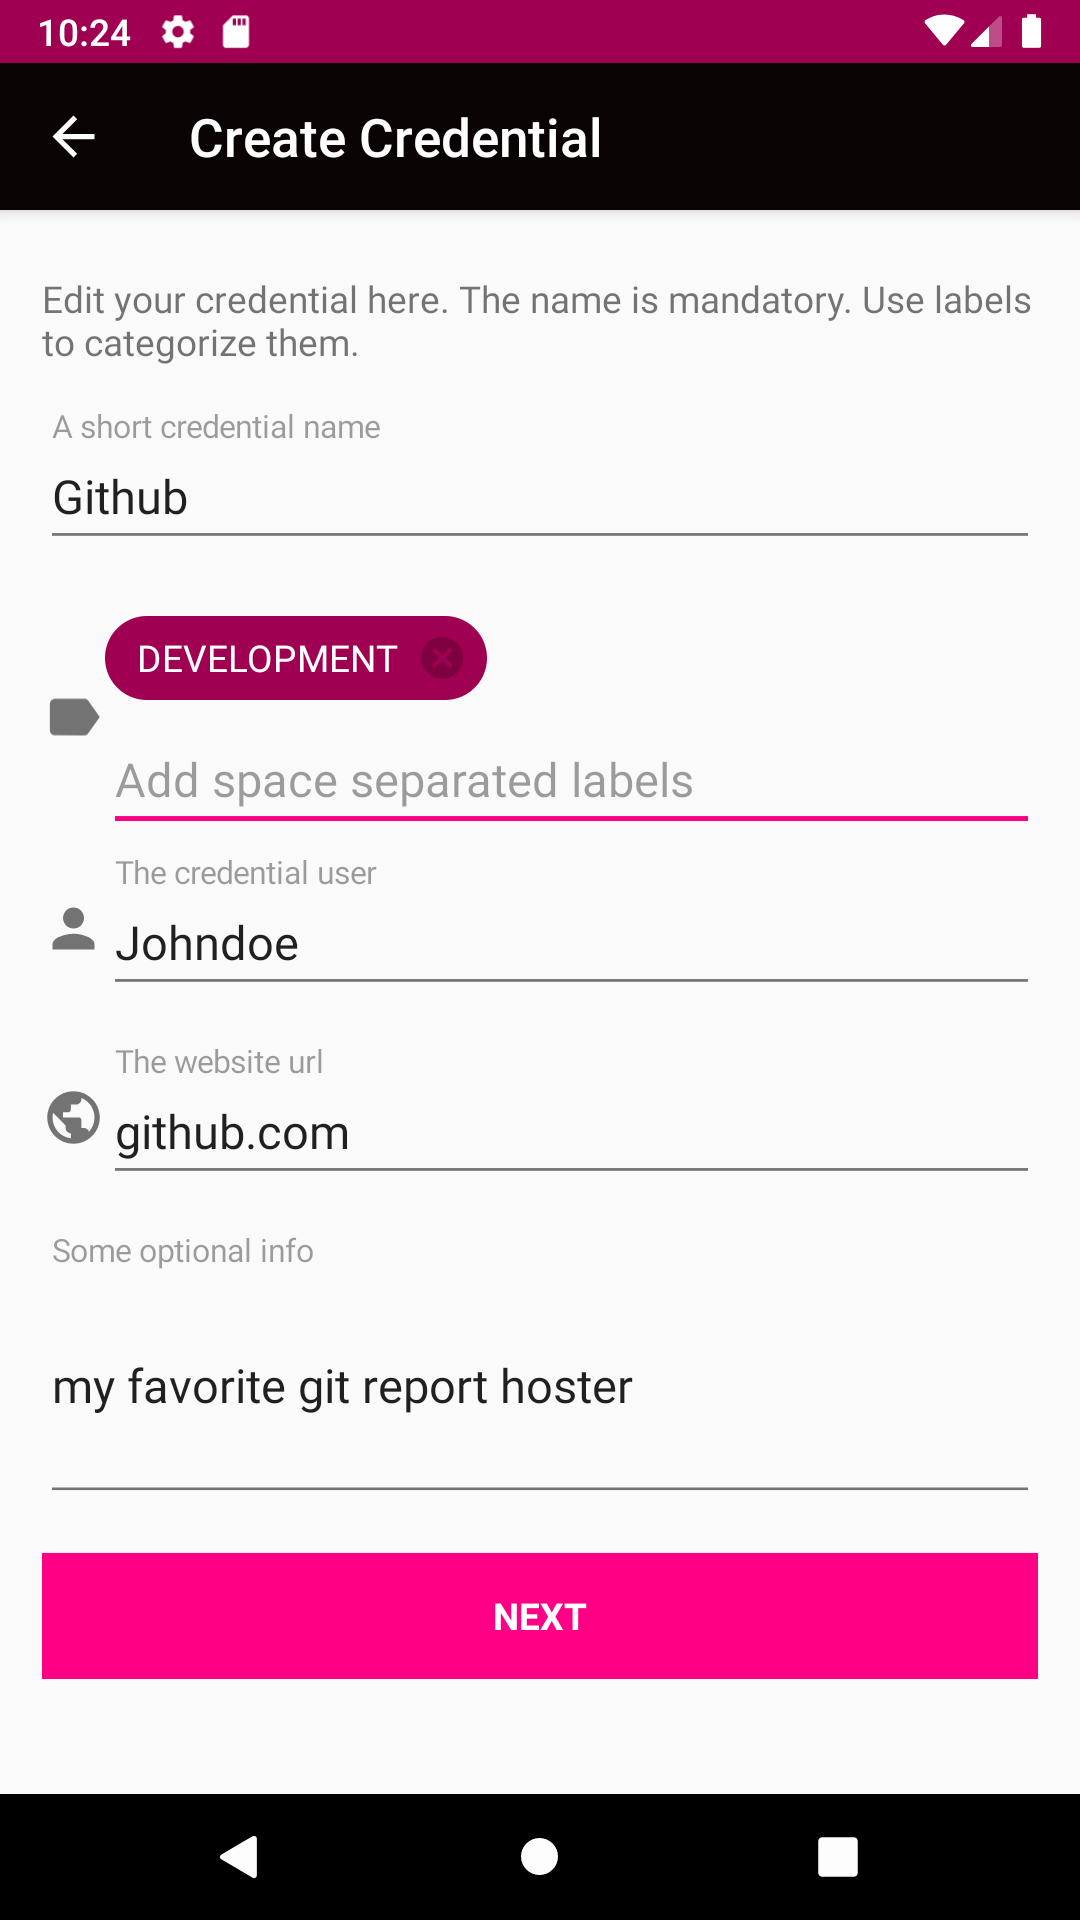
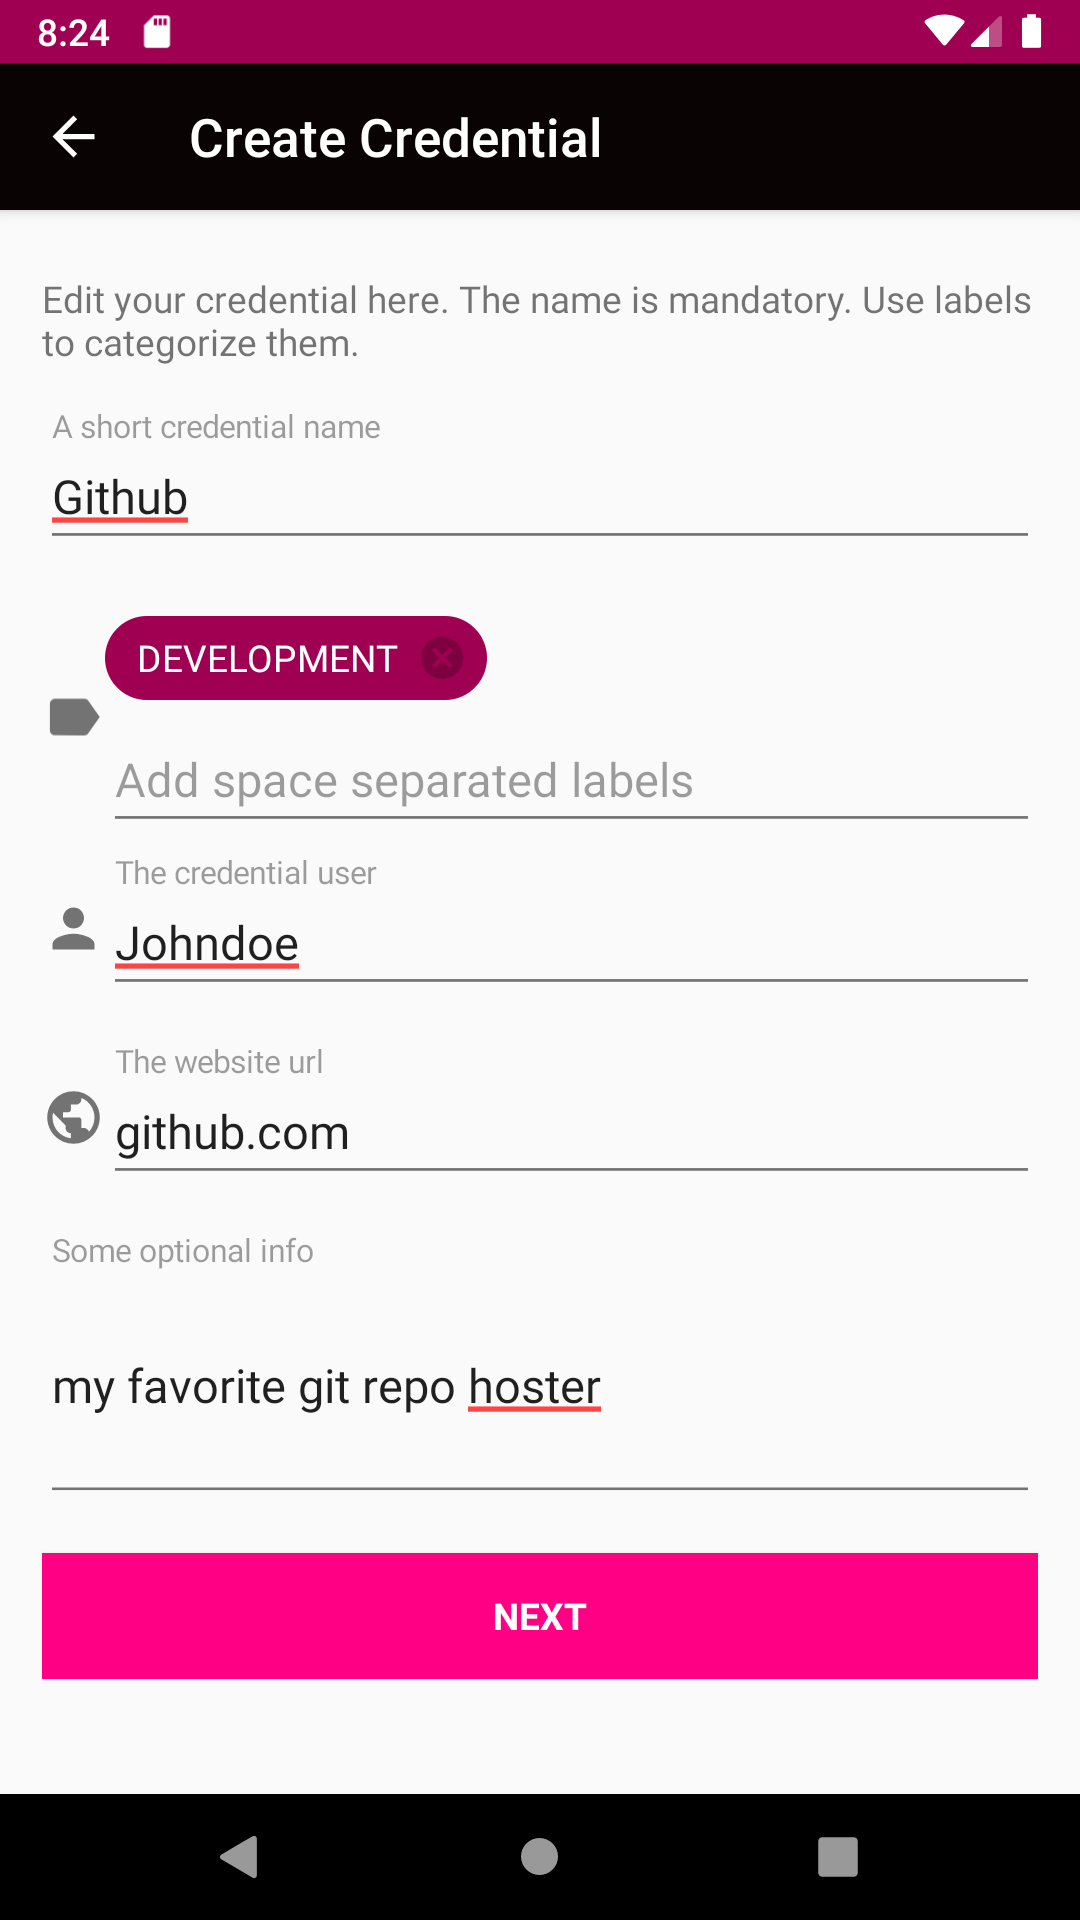
Fix texts and metadata
* replace weird missleading text string
* add icon and improved description to metadata

diff --git a/README.md b/README.md
@@ -2,7 +2,7 @@
 
 This Android app is another approach of a password manager. Instead of managing manually created passwords this app encourages to generate passwords. Passwords are generated in a human readable but secure manner by default, called Pseudo Phrases. Another feature is a two factor authentication with knowledge (a user pin) and ownership (a master password physically stored as NFC tag or QR code).
 
-The motivation for this app was curiosity of how encryption works, how to implement in Kotlin and the need of an easy, lightweight but secure password manager. It is a personal project without any warranty and pretension of absolute professionality. 
+The motivation for this app was curiosity of how encryption works, how to implement in Kotlin and the need of an easy, lightweight but secure password manager. It is a personal project without any warranty and pretension of absolute professionality.
 
 [<img src="https://fdroid.gitlab.io/artwork/badge/get-it-on.png"
      alt="Get it on F-Droid"
@@ -10,21 +10,22 @@ The motivation for this app was curiosity of how encryption works, how to implem
 
 **Core features of the app**
 
->* easy two factor authentification
+>* easy two factor authentication
 >* no complicated master password to memorize
 >* easy to read generated passwords
->* strong modern encryption 
+>* strong modern encryption
 >* Autofill support
 >* biometrics (e.g. fingerprint) for stored master password
->* no unsecure clipboard function by default
+>* no insecure clipboard function by default
+>* show passwords over other apps
 >* no internet connection needed, all is offline
 >* export and import credential vault
 >* share and outsource credentials
 >* obfuscate passwords
->* self desctruction mode
+>* self destruction mode
 
 For more information see [https://anotherpass.jepfa.de](https://anotherpass.jepfa.de)
 
-You can download the latest release version [here](https://anotherpass.jepfa.de/download/). 
+You can download the latest release version [here](https://anotherpass.jepfa.de/download/).
 
 You are also welcome to hunt bugs :-)
